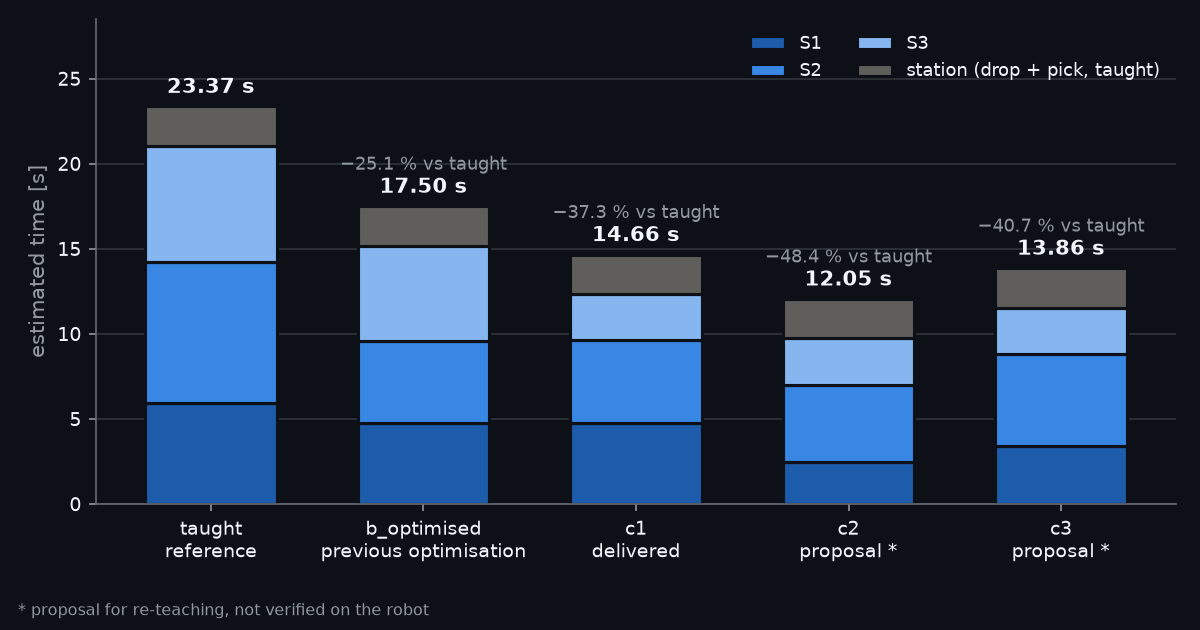
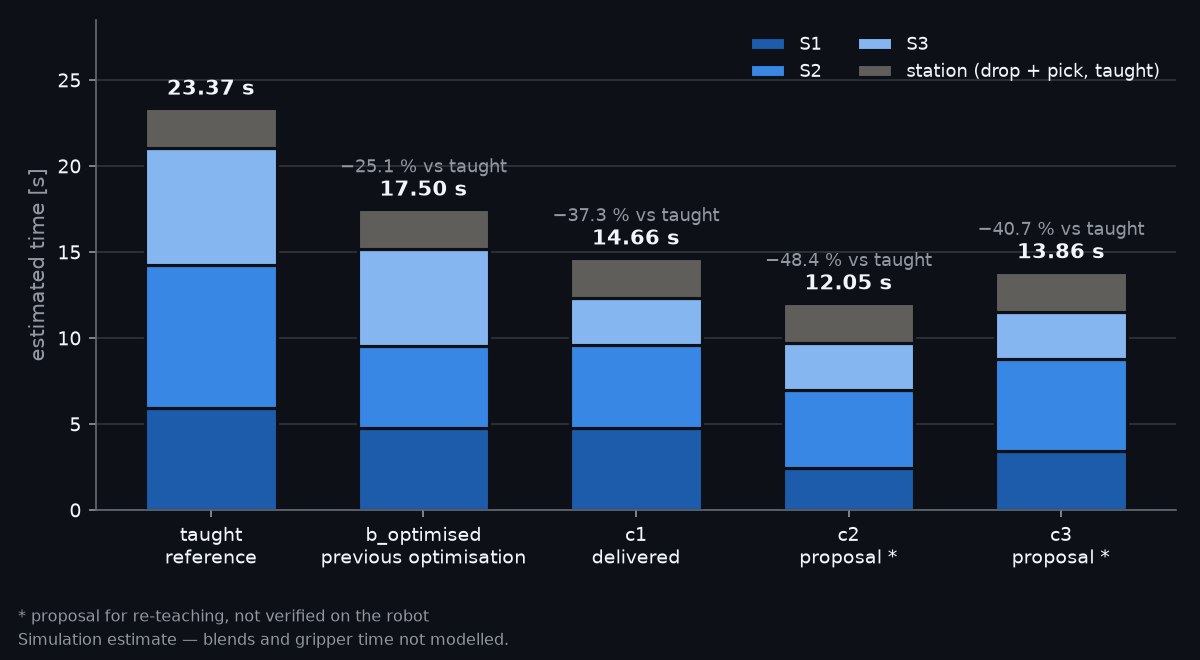
Restore the estimate footnote in the two timing graphs
The cycle-time and joint-position graphs show the estimated timing, so
they carry the footnote "Simulation estimate - blends and gripper time
not modelled." again (owner, 2026-10-21), under the proposal note. Each
figure is 0.2 in taller so the plot area keeps its size. The other
images are unchanged; the byte-pinned references of the two graphs are
regenerated.

Tests: test_make_readme_figures.py (with the byte-for-byte graph test)
and test_readme.py pass, 8 tests.

diff --git a/Example/make_readme_figures.py b/Example/make_readme_figures.py
@@ -73,6 +73,9 @@ CONST_ORDER = tuple(CONST_VARIANTS)
 CONST_SHORT = {'taught': 'reference', 'b_optimised': 'previous optimisation', 'c1': 'delivered',
                'c2': 'proposal *', 'c3': 'proposal *'}
 CONST_PROPOSAL_NOTE = '* proposal for re-teaching, not verified on the robot'
+# The footnote of the graphs that show times (owner, 2026-10-21): their timing is the duration estimate.
+#   Unit [string]
+CONST_ESTIMATE_NOTE = 'Simulation estimate — blends and gripper time not modelled.'
 # The page themes a graph is written for (GitHub's light and dark page colours) and their ink.
 #   Unit [Dict<string, Dict<string, string>>] (hex colour)
 CONST_THEMES = {
@@ -361,7 +364,7 @@ def Graph_Cycle_Time(table: tp.Dict, mode: str) -> tp.Any:
     """
 
     theme = CONST_THEMES[mode]
-    fig, ax = New_Figure((8.0, 4.2), theme)
+    fig, ax = New_Figure((8.0, 4.4), theme)
     x = np.arange(len(CONST_ORDER))
     bottom = np.zeros(len(CONST_ORDER))
     for section, color in zip(CONST_STACK, CONST_STACK_COLORS[mode]):
@@ -384,8 +387,8 @@ def Graph_Cycle_Time(table: tp.Dict, mode: str) -> tp.Any:
     ax.set_ylim(0, taught * 1.22)
     legend = ax.legend(loc='upper right', ncol=2, fontsize=8.5, frameon=False, labelcolor=theme['text'])
     legend.set_title(None)
-    fig.subplots_adjust(left=0.08, right=0.98, top=0.97, bottom=0.2)
-    Footnote(fig, theme, [CONST_PROPOSAL_NOTE])
+    fig.subplots_adjust(left=0.08, right=0.98, top=0.97, bottom=0.227)
+    Footnote(fig, theme, [CONST_PROPOSAL_NOTE, CONST_ESTIMATE_NOTE])
     return fig
 
 
@@ -512,7 +515,7 @@ def Graph_Joints(data: tp.Dict[str, Variant_Data_Str], mode: str) -> tp.Any:
 
     theme = CONST_THEMES[mode]
     colors = CONST_VARIANT_COLORS[mode]
-    fig, axes = New_Figure((8.0, 10.4), theme, 7, 1, sharex=True, gridspec_kw={'height_ratios': [1.25] + [1.0] * 6})
+    fig, axes = New_Figure((8.0, 10.6), theme, 7, 1, sharex=True, gridspec_kw={'height_ratios': [1.25] + [1.0] * 6})
     timeline, joints = axes[0], axes[1:]
     end = max(data[v].Time[-1] for v in CONST_ORDER)
     for row, v in enumerate(CONST_ORDER):
@@ -542,8 +545,8 @@ def Graph_Joints(data: tp.Dict[str, Variant_Data_Str], mode: str) -> tp.Any:
     joints[-1].set_xlim(-0.3, end + 2.2)
     fig.legend(*joints[0].get_legend_handles_labels(), loc='upper left', bbox_to_anchor=(0.09, 0.995), ncol=3, fontsize=8.5,
                frameon=False, labelcolor=theme['text'])
-    fig.subplots_adjust(left=0.13, right=0.98, top=0.92, bottom=0.07, hspace=0.14)
-    Footnote(fig, theme, [CONST_PROPOSAL_NOTE + ' (dashed).'])
+    fig.subplots_adjust(left=0.13, right=0.98, top=0.922, bottom=0.084, hspace=0.14)
+    Footnote(fig, theme, [CONST_PROPOSAL_NOTE + ' (dashed).', CONST_ESTIMATE_NOTE])
     return fig
 
 
